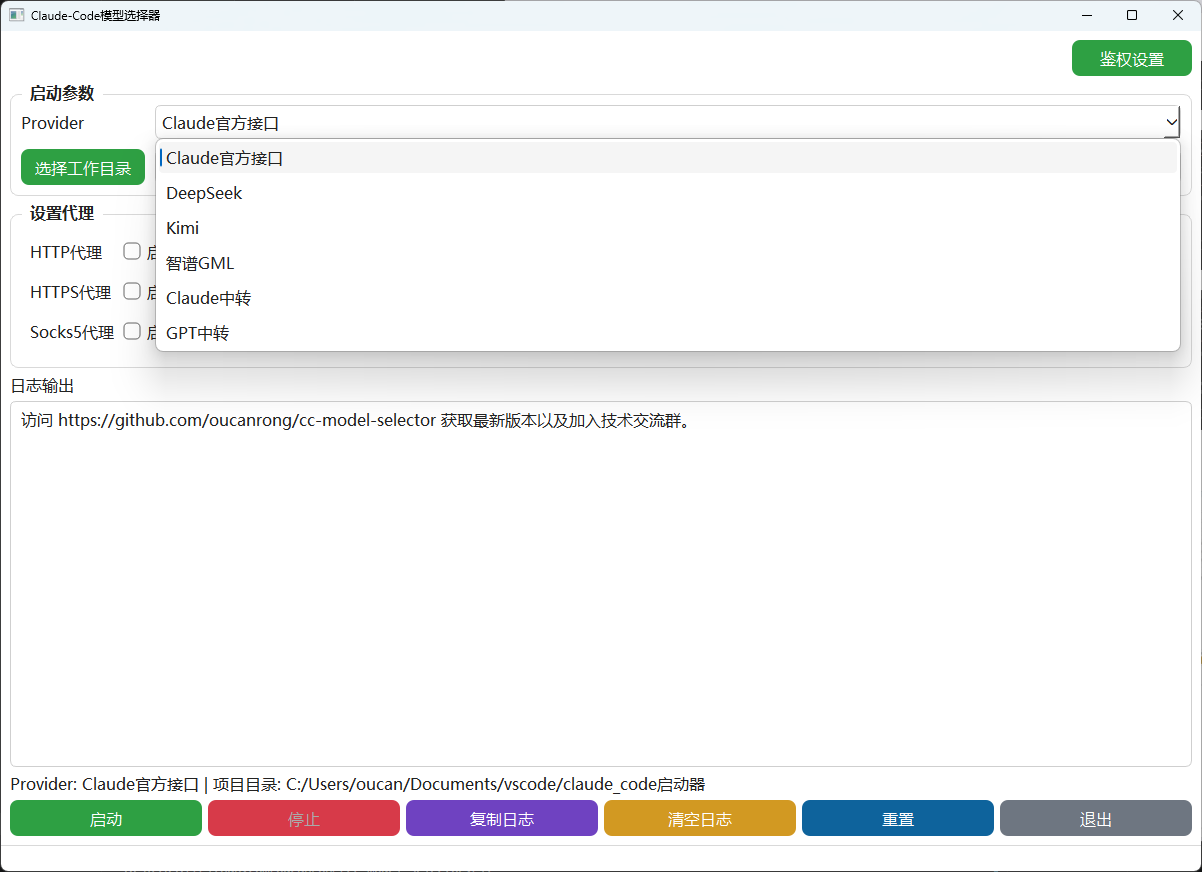
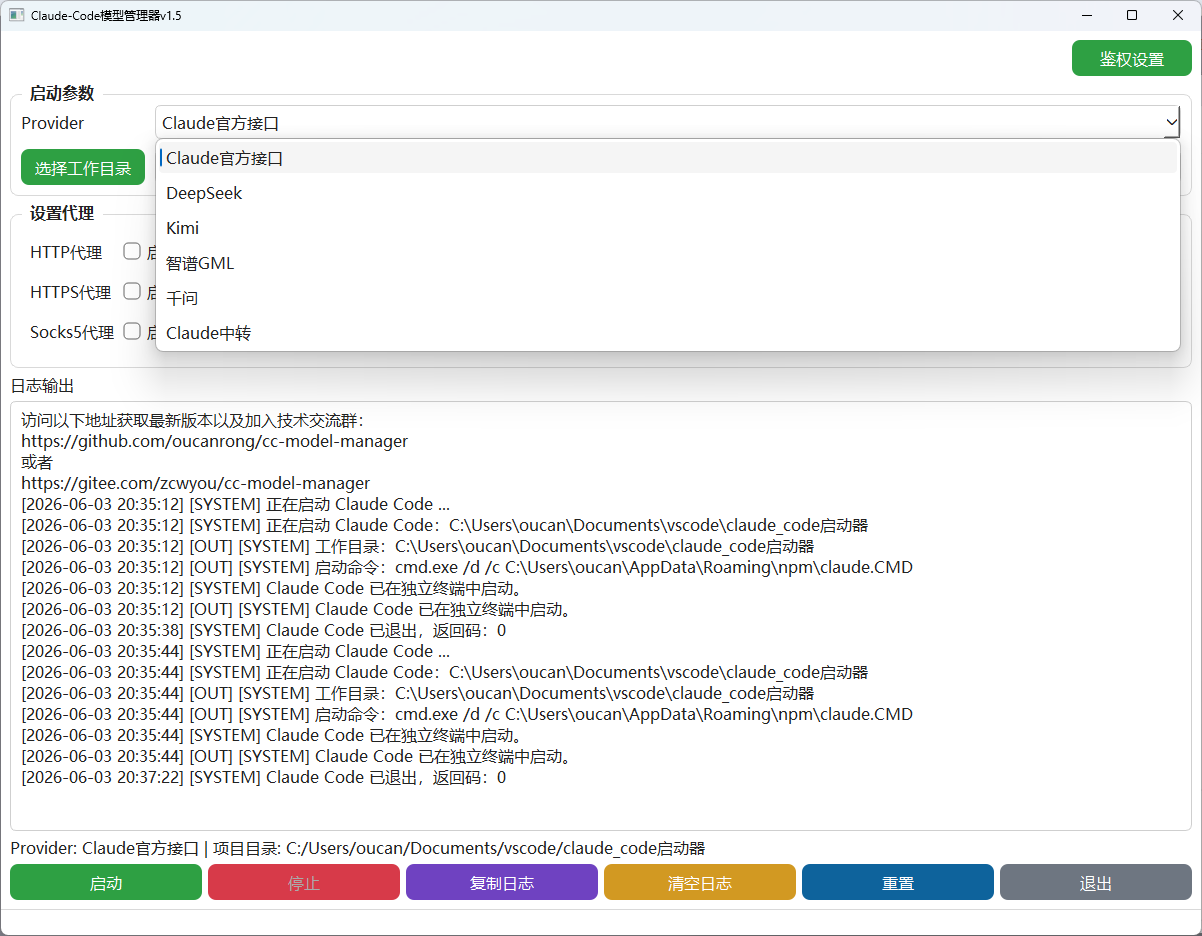
增加阿里千问模型支持

diff --git a/src/core/constants.py b/src/core/constants.py
@@ -1,4 +1,4 @@
-# 路径: src/core/constants.py
+# 路径: C:\Users\oucan\Documents\vscode\claude_code启动器\src\core\constants.py
 # 作用: 全局常量与 Provider 预设
 
 from __future__ import annotations
@@ -6,7 +6,7 @@ from __future__ import annotations
 from dataclasses import dataclass
 from pathlib import Path
 
-APP_NAME = "Claude-Code模型管理器v1.4"
+APP_NAME = "Claude-Code模型管理器v1.5"
 
 ROOT_DIR = Path(__file__).resolve().parents[2]
 CONFIG_PATH = ROOT_DIR / "config.json"
@@ -28,16 +28,16 @@ PROVIDER_CLAUDE_DEFAULT = "Claude官方接口"
 PROVIDER_DEEPSEEK = "DeepSeek"
 PROVIDER_KIMI = "Kimi"
 PROVIDER_ZHIPU = "智谱GML"
+PROVIDER_QWEN = "千问"
 PROVIDER_CLAUDE_RELAY = "Claude中转"
-PROVIDER_GPT_RELAY = "GPT中转"
 
 PROVIDER_OPTIONS = [
     PROVIDER_CLAUDE_DEFAULT,
     PROVIDER_DEEPSEEK,
     PROVIDER_KIMI,
     PROVIDER_ZHIPU,
+    PROVIDER_QWEN,
     PROVIDER_CLAUDE_RELAY,
-    PROVIDER_GPT_RELAY,
 ]
 
 
@@ -69,7 +69,7 @@ class ProviderPreset:
     show_api_timeout_ms: bool = False
     # GML5 专用：API_TIMEOUT_MS 默认值
     api_timeout_ms_default: str = "3000000"
-    # 是否隐藏 CLAUDE_CODE_EFFORT_LEVEL（Kimi 和 GML5 不再显示该参数）
+    # 是否隐藏 CLAUDE_CODE_EFFORT_LEVEL（Kimi / GML5 / 千问 不再显示该参数）
     hide_effort_level: bool = False
 
 
@@ -140,6 +140,21 @@ PROVIDER_PRESETS: dict[str, ProviderPreset] = {
         api_timeout_ms_default="3000000",
         hide_effort_level=True,
     ),
+    PROVIDER_QWEN: ProviderPreset(
+        base_url="https://dashscope.aliyuncs.com/apps/anthropic",
+        model_options=("qwen3.7-max", "qwen3.7-plus", "qwen3.6-flash"),
+        anthropic_model_default="qwen3.7-max",
+        default_opus_model_default="qwen3.7-max",
+        default_sonnet_model_default="qwen3.7-max",
+        default_haiku_model_default="qwen3.6-flash",
+        subagent_model_default="qwen3.7-max",
+        effort_level_options=("max",),
+        effort_level_default="max",
+        parameters_enabled=True,
+        base_url_editable=True,
+        show_base_url_in_main=False,
+        hide_effort_level=True,
+    ),
     PROVIDER_CLAUDE_RELAY: ProviderPreset(
         base_url="",
         model_options=("claude-sonnet-4-6", "claude-opus-4-8", "claude-haiku-4-5-20251001"),
@@ -149,20 +164,6 @@ PROVIDER_PRESETS: dict[str, ProviderPreset] = {
         default_haiku_model_default="claude-haiku-4-5-20251001",
         subagent_model_default="claude-sonnet-4-6",
         effort_level_options=("low", "medium", "high", "max"),
-        effort_level_default="high",
-        parameters_enabled=True,
-        base_url_editable=True,
-        show_base_url_in_main=False,
-    ),
-    PROVIDER_GPT_RELAY: ProviderPreset(
-        base_url="",
-        model_options=("gpt-5.5", "gpt-5.4-mini"),
-        anthropic_model_default="gpt-5.5",
-        default_opus_model_default="gpt-5.5",
-        default_sonnet_model_default="gpt-5.5",
-        default_haiku_model_default="gpt-5.4-mini",
-        subagent_model_default="gpt-5.5",
-        effort_level_options=("low", "medium", "high", "xhigh"),
         effort_level_default="high",
         parameters_enabled=True,
         base_url_editable=True,

diff --git a/src/ui/widgets/auth_settings_dialog.py b/src/ui/widgets/auth_settings_dialog.py
@@ -1,8 +1,8 @@
-# 路径: src/ui/widgets/auth_settings_dialog.py
+# 路径: C:\Users\oucan\Documents\vscode\claude_code启动器\src\ui\widgets\auth_settings_dialog.py
 # 作用: 鉴权设置弹窗
-#   - DeepSeek / Kimi / 智谱GML：base_url 可编辑，保留预设默认值；API Key 可填。
+#   - DeepSeek / Kimi / 智谱GML / 千问：base_url 可编辑，保留预设默认值；API Key 可填。
 #     增加 申请API 按钮。
-#   - Claude中转 / GPT中转：base_url 可编辑（用户自填中转地址）；API Key 可填。
+#   - Claude中转：base_url 可编辑（用户自填中转地址）；API Key 可填。
 #   - Claude官方接口：不在此弹窗中出现。
 #   - base_url 与 API Key 均可任意留空，互不绑定。
 
@@ -29,8 +29,8 @@ from PyQt6.QtWidgets import (
 from src.core.constants import (
     PROVIDER_CLAUDE_RELAY,
     PROVIDER_DEEPSEEK,
-    PROVIDER_GPT_RELAY,
     PROVIDER_KIMI,
+    PROVIDER_QWEN,
     PROVIDER_ZHIPU,
     get_provider_preset,
 )
@@ -41,6 +41,7 @@ _API_APPLY_URLS: dict[str, str] = {
     PROVIDER_DEEPSEEK: "https://platform.deepseek.com/usage",
     PROVIDER_KIMI: "https://platform.moonshot.cn/console/api-keys",
     PROVIDER_ZHIPU: "https://bigmodel.cn/apikey/platform",
+    PROVIDER_QWEN: "https://help.aliyun.com/zh/model-studio/get-api-key",
 }
 
 
@@ -52,9 +53,9 @@ class AuthSettingsDialog(QDialog):
     其中包含每个 provider 的 base_url 与 token。
 
     所有标签页均包含：
-      - Base URL 输入框（可编辑；DeepSeek/Kimi/智谱GML 预填固定默认值，中转留空由用户填写）
+      - Base URL 输入框（可编辑；DeepSeek/Kimi/智谱GML/千问 预填固定默认值，中转留空由用户填写）
       - API Key  输入框（密文）
-      - 申请API按钮（仅 DeepSeek/Kimi/智谱GML，用默认浏览器打开申请地址）
+      - 申请API按钮（仅 DeepSeek/Kimi/智谱GML/千问，用默认浏览器打开申请地址）
     base_url 与 API Key 均可任意留空，互不绑定。
     """
 
@@ -111,8 +112,8 @@ class AuthSettingsDialog(QDialog):
             ("DeepSeek",  PROVIDER_DEEPSEEK),
             ("Kimi",      PROVIDER_KIMI),
             ("智谱GML",   PROVIDER_ZHIPU),
+            ("千问",      PROVIDER_QWEN),
             ("Claude中转", PROVIDER_CLAUDE_RELAY),
-            ("GPT中转",    PROVIDER_GPT_RELAY),
         ]
 
         for tab_label, provider_key in tabs:
@@ -153,7 +154,7 @@ class AuthSettingsDialog(QDialog):
         每个标签页均包含：
           - Base URL（可编辑输入框；固定 provider 预填默认值，中转留空）
           - API Key （密文输入框）
-          - 申请API按钮（仅 DeepSeek/Kimi/智谱GML）
+          - 申请API按钮（仅 DeepSeek/Kimi/智谱GML/千问）
         """
         page = QWidget()
         layout = QVBoxLayout(page)
@@ -195,7 +196,7 @@ class AuthSettingsDialog(QDialog):
         btn_row = QHBoxLayout()
         btn_row.setSpacing(10)
 
-        # 申请API按钮（仅 DeepSeek / Kimi / 智谱GML）
+        # 申请API按钮（仅 DeepSeek / Kimi / 智谱GML / 千问）
         if provider_key in _API_APPLY_URLS:
             apply_btn = QPushButton("申请API")
             apply_btn.setObjectName("authApplyButton")

diff --git a/src/services/env_builder_service.py b/src/services/env_builder_service.py
@@ -1,4 +1,4 @@
-# 路径: src/services/env_builder_service.py
+# 路径: C:\Users\oucan\Documents\vscode\claude_code启动器\src\services\env_builder_service.py
 # 作用: 构建 Claude Code 启动环境变量
 
 from __future__ import annotations
@@ -9,7 +9,6 @@ from src.core.config_manager import AppConfig
 from src.core.constants import (
     PROVIDER_CLAUDE_DEFAULT,
     PROVIDER_CLAUDE_RELAY,
-    PROVIDER_GPT_RELAY,
     get_provider_preset,
 )
 from .proxy_service import build_proxy_env
@@ -44,7 +43,7 @@ def build_env(config: AppConfig) -> dict[str, str]:
             env.pop(key, None)
 
     else:
-        # 所有第三方 Provider（DeepSeek / Kimi / 智谱GML / Claude中转 / GPT中转）：
+        # 所有第三方 Provider（DeepSeek / Kimi / 智谱GML / 千问 / Claude中转）：
         # 注入 token，并清除 ANTHROPIC_API_KEY。
         # 原因：Claude Code 会优先读取 ANTHROPIC_API_KEY；若该变量存在但为空，
         # 即使 ANTHROPIC_AUTH_TOKEN 已正确设置，Claude Code 也会报"未登录"。
@@ -65,7 +64,7 @@ def build_env(config: AppConfig) -> dict[str, str]:
 
             # 模型参数：中转 provider 用用户输入值（可为空，为空则不注入）；
             # 固定 provider 回退到预设默认值。
-            is_relay = config.provider in (PROVIDER_CLAUDE_RELAY, PROVIDER_GPT_RELAY)
+            is_relay = config.provider == PROVIDER_CLAUDE_RELAY
 
             def _model_val(config_val: str, preset_default: str) -> str:
                 v = config_val.strip()
@@ -90,9 +89,9 @@ def build_env(config: AppConfig) -> dict[str, str]:
             if subagent:
                 env["CLAUDE_CODE_SUBAGENT_MODEL"] = subagent
 
-            # CLAUDE_CODE_EFFORT_LEVEL：仅对非 Kimi、非 GML5 的 provider 注入
+            # CLAUDE_CODE_EFFORT_LEVEL：仅对非 Kimi、非 GML5、非千问 的 provider 注入
             if preset.hide_effort_level:
-                # Kimi / GML5 不使用此参数，确保环境变量中不存在
+                # Kimi / GML5 / 千问 不使用此参数，确保环境变量中不存在
                 env.pop("CLAUDE_CODE_EFFORT_LEVEL", None)
             else:
                 effort = config.effort_level.strip() or (preset.effort_level_default if not is_relay else "")

diff --git a/src/ui/widgets/parameter_group.py b/src/ui/widgets/parameter_group.py
@@ -1,10 +1,11 @@
-# 路径: src/ui/widgets/parameter_group.py
+# 路径: C:\Users\oucan\Documents\vscode\claude_code启动器\src\ui\widgets\parameter_group.py
 # 作用: 启动参数区域控件
-#   - DeepSeek / Kimi / 智谱GML：base_url 不在主界面显示（在鉴权弹窗编辑），
+#   - DeepSeek / Kimi / 智谱GML / 千问：base_url 不在主界面显示（在鉴权弹窗编辑），
 #     模型下拉框可用。
 #   - Kimi：不显示 CLAUDE_CODE_EFFORT_LEVEL，显示 ENABLE_TOOL_SEARCH（下拉框，只有 false）。
 #   - 智谱GML：不显示 CLAUDE_CODE_EFFORT_LEVEL，显示 CLAUDE_CODE_DISABLE_NONESSENTIAL_TRAFFIC（下拉框，只有 1）。
-#   - Claude中转 / GPT中转：base_url 同样不在主界面显示（从 config 静默读取），
+#   - 千问：不显示 CLAUDE_CODE_EFFORT_LEVEL。
+#   - Claude中转：base_url 同样不在主界面显示（从 config 静默读取），
 #     模型 & effort 使用下拉框（预设选项列表），与固定 provider 保持一致。
 #   - Claude官方接口：所有参数行均禁用。
 
@@ -27,14 +28,13 @@ from src.core.constants import (
     DEFAULT_PROVIDER,
     PROVIDER_OPTIONS,
     PROVIDER_CLAUDE_RELAY,
-    PROVIDER_GPT_RELAY,
     PROVIDER_KIMI,
     PROVIDER_ZHIPU,
     get_provider_preset,
 )
 
 # 中转 provider 集合
-_RELAY_PROVIDERS = {PROVIDER_CLAUDE_RELAY, PROVIDER_GPT_RELAY}
+_RELAY_PROVIDERS = {PROVIDER_CLAUDE_RELAY}
 
 
 class ParameterGroup(QGroupBox):

diff --git a/src/ui/main_window.py b/src/ui/main_window.py
@@ -1,4 +1,4 @@
-# 路径: src/ui/main_window.py
+# 路径: C:\Users\oucan\Documents\vscode\claude_code启动器\src\ui\main_window.py
 # 作用: 主窗口与交互逻辑
 
 from __future__ import annotations
@@ -24,7 +24,7 @@ from PyQt6.QtWidgets import (
 )
 
 from src.core.config_manager import AppConfig, ConfigManager, ProxyConfig, ProxyItem, ProviderSettings
-from src.core.constants import APP_NAME, PROVIDER_CLAUDE_DEFAULT, PROVIDER_CLAUDE_RELAY, PROVIDER_GPT_RELAY
+from src.core.constants import APP_NAME, PROVIDER_CLAUDE_DEFAULT, PROVIDER_CLAUDE_RELAY
 from src.core.logger import setup_logger
 from src.core.process_manager import ProcessManager
 from src.ui.styles import APP_QSS
@@ -35,7 +35,7 @@ from src.ui.widgets.proxy_group import ProxyGroup
 from src.workers.claude_worker import ClaudeWorker
 
 # 中转 Provider 集合（需要 base_url 非空校验）
-_RELAY_PROVIDERS = {PROVIDER_CLAUDE_RELAY, PROVIDER_GPT_RELAY}
+_RELAY_PROVIDERS = {PROVIDER_CLAUDE_RELAY}
 
 # 退出确认弹窗按钮的样式（修复全局 QPushButton color:white 导致按钮文字不可见的问题）
 _CONFIRM_DIALOG_BUTTON_QSS = """

diff --git a/README.md b/README.md
@@ -4,7 +4,7 @@
 
 ## ✨ 核心特性
 
-- **🚀 跨服务商快速适配**：预设 **Claude 官方、DeepSeek、Kimi、智谱 GLM** 的 Anthropic 兼容端预设，一键注入对应的 API Key / Token。
+- **🚀 跨服务商快速适配**：预设 **Claude 官方、DeepSeek、Kimi、智谱 GLM、阿里千问、第三方中转API服务的Anthropic 兼容端预设，一键注入对应的 API Key / Token。
 - **🌐 全功能网络代理支持**：完美集成 **HTTP、HTTPS、SOCKS5** 三种代理协议，国内网络环境无缝使用。
 - **📂 智能工作区与多项目管理**：支持可视化选择工作目录，自动维护历史项目记录，一键切换。
 - **🛠 独立控制台拉起**：采用多进程与多线程管理，在独立的安全控制台中拉起 Claude 交互界面，绝不卡死主 GUI。
@@ -43,15 +43,14 @@
 ![选择智谱模型](https://github.com/oucanrong/cc-model-manager/blob/main/screenshot/04-gml.png)
 ![运行智谱模型](https://github.com/oucanrong/cc-model-manager/blob/main/screenshot/04b-gml.png)
 
-4.5 支持第3方claude中转
-![选择3方claude中转](https://github.com/oucanrong/cc-model-manager/blob/main/screenshot/05-claude-proxy.png)
+4.5 支持阿里千问
+![选择阿里千问](https://github.com/oucanrong/cc-model-manager/blob/main/screenshot/05-qwen.png)
+![使用阿里千问](https://github.com/oucanrong/cc-model-manager/blob/main/screenshot/05b-qwen.png)
 
-![使用3方claude中转](https://github.com/oucanrong/cc-model-manager/blob/main/screenshot/05b-claude-proxy.png)
+4.6 支持第3方claude中转
+![选择3方claude中转](https://github.com/oucanrong/cc-model-manager/blob/main/screenshot/06-claude-proxy.png)
 
-
-4.6 支持第3方GPT中转
-![选择3方GPT中转](https://github.com/oucanrong/cc-model-manager/blob/main/screenshot/06-gpt-proxy.png)
-![使用3方GPT中转](https://github.com/oucanrong/cc-model-manager/blob/main/screenshot/06b-gpt-proxy.png)
+![使用3方claude中转](https://github.com/oucanrong/cc-model-manager/blob/main/screenshot/06b-claude-proxy.png)
 
 ### 选项 B：从源码运行（适合开发者）
 